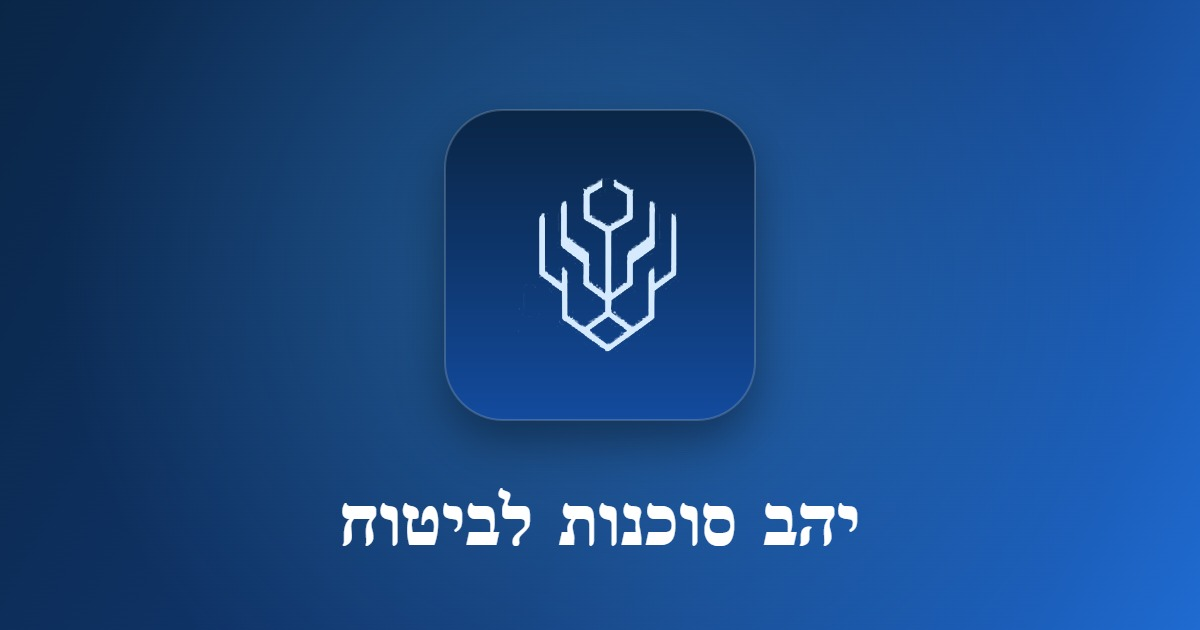
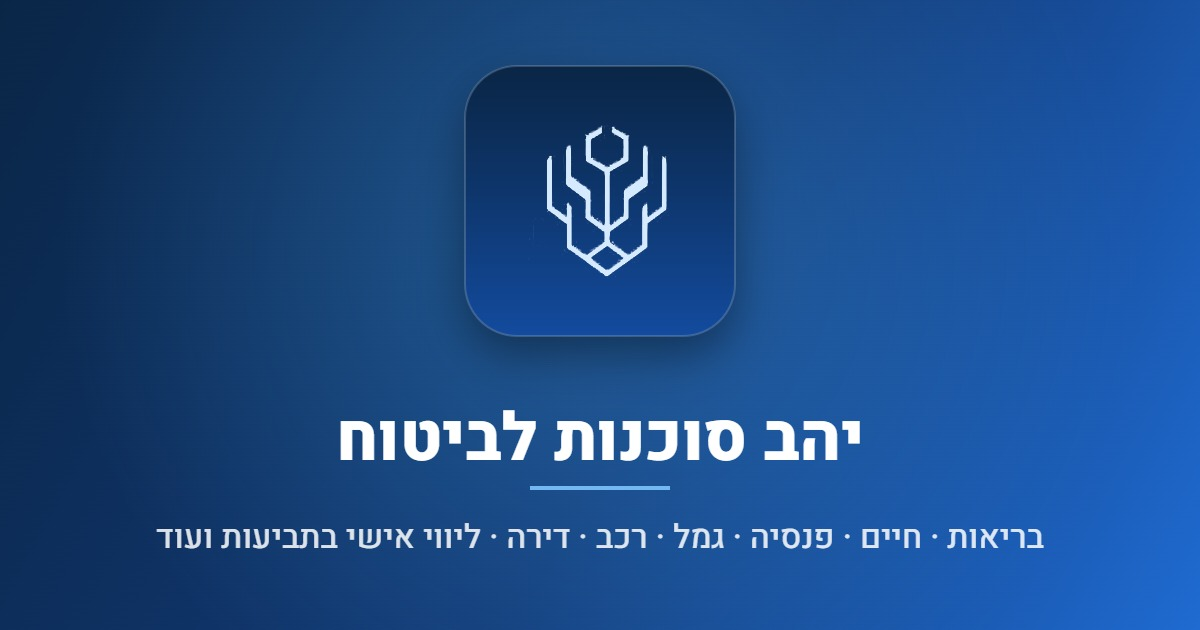
Restore caption with services tagline

Changed region(s): [[0.1233, 0.573, 0.8942, 0.8746], [0.37, 0.0905, 0.6475, 0.573]]

diff --git a/index.html b/index.html
@@ -11,11 +11,12 @@
   <meta name="apple-mobile-web-app-title" content="יהב" />
   <meta name="mobile-web-app-capable" content="yes" />
   <title>יהב סוכנות לביטוח | מאיר כהן</title>
-  <meta name="description" content="יהב סוכנות לביטוח" />
+  <meta name="description" content="יהב סוכנות לביטוח — בריאות · חיים · פנסיה · גמל · רכב · דירה · ליווי אישי בתביעות ועוד" />
   <!-- תצוגה מקדימה בשיתוף קישור (Open Graph) -->
   <meta property="og:type" content="website" />
   <meta property="og:site_name" content="יהב סוכנות לביטוח" />
   <meta property="og:title" content="יהב סוכנות לביטוח" />
+  <meta property="og:description" content="בריאות · חיים · פנסיה · גמל · רכב · דירה · ליווי אישי בתביעות ועוד" />
   <meta property="og:url" content="https://yahav-ins.net/" />
   <meta property="og:image" content="https://yahav-ins.net/images/og-image.jpg" />
   <meta property="og:image:secure_url" content="https://yahav-ins.net/images/og-image.jpg" />
@@ -26,6 +27,7 @@
   <meta property="og:locale" content="he_IL" />
   <meta name="twitter:card" content="summary_large_image" />
   <meta name="twitter:title" content="יהב סוכנות לביטוח" />
+  <meta name="twitter:description" content="בריאות · חיים · פנסיה · גמל · רכב · דירה · ליווי אישי בתביעות ועוד" />
   <meta name="twitter:image" content="https://yahav-ins.net/images/og-image.jpg" />
   <link rel="preconnect" href="https://fonts.googleapis.com" />
   <link rel="preconnect" href="https://fonts.gstatic.com" crossorigin />
